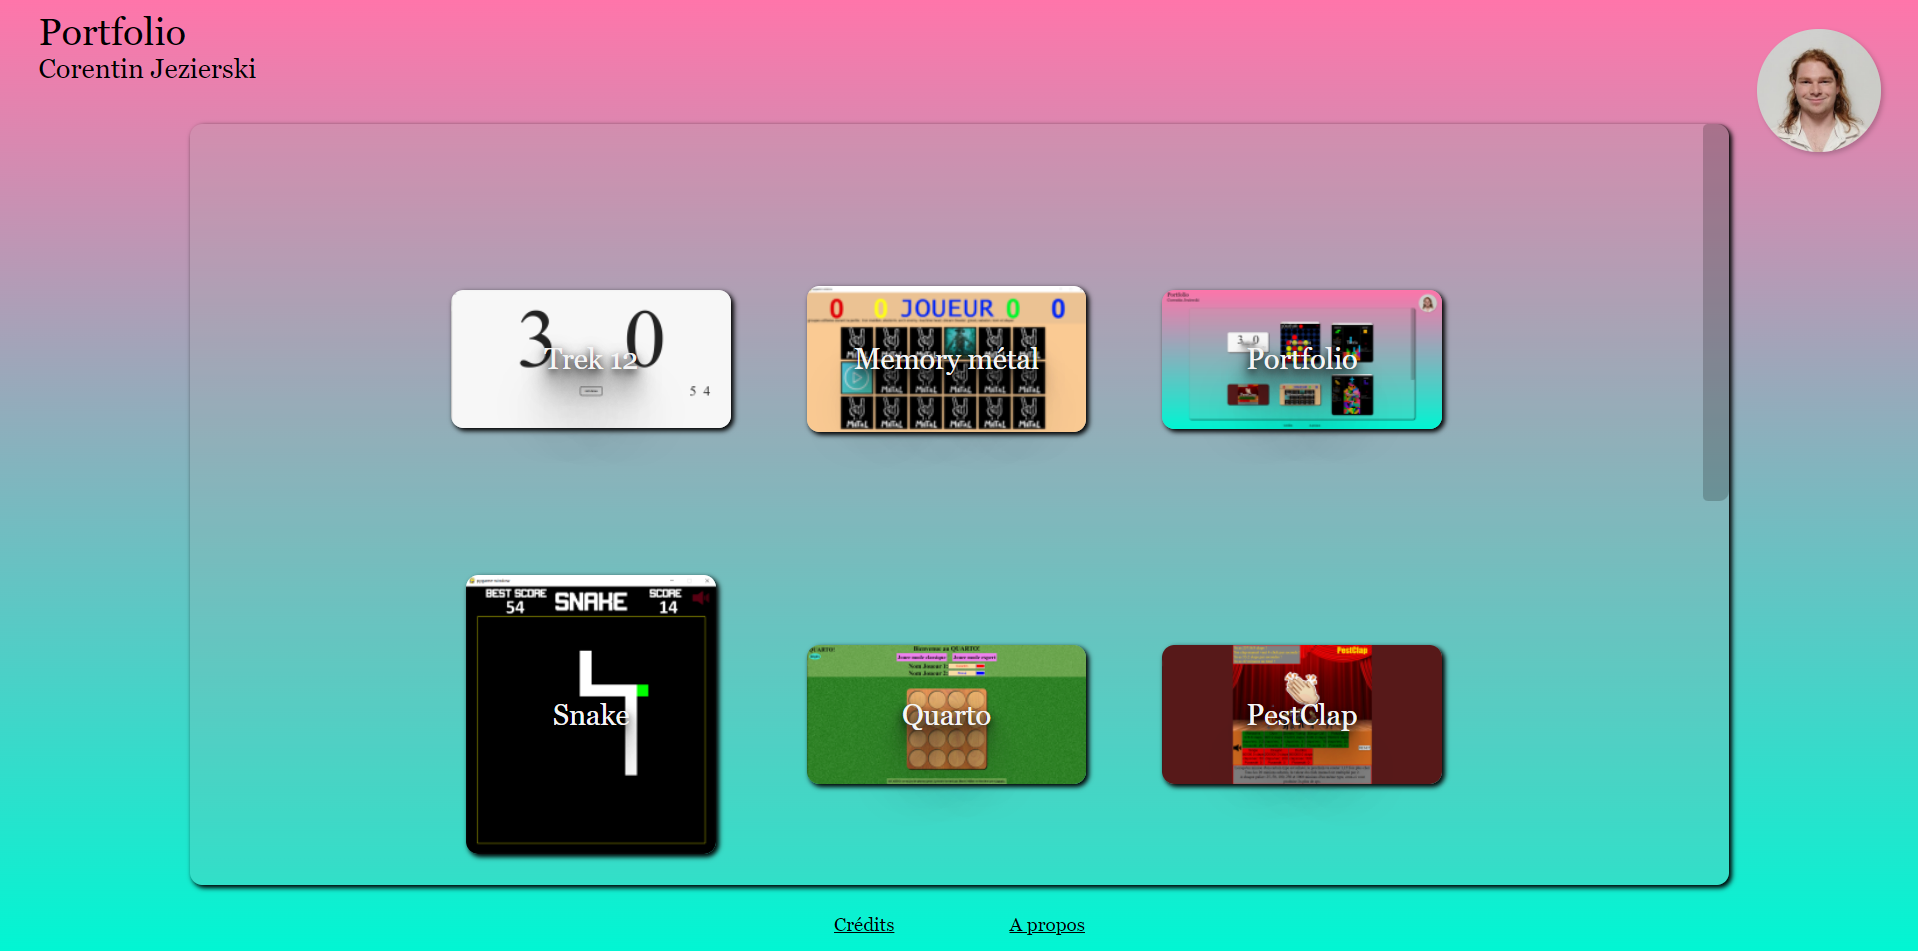
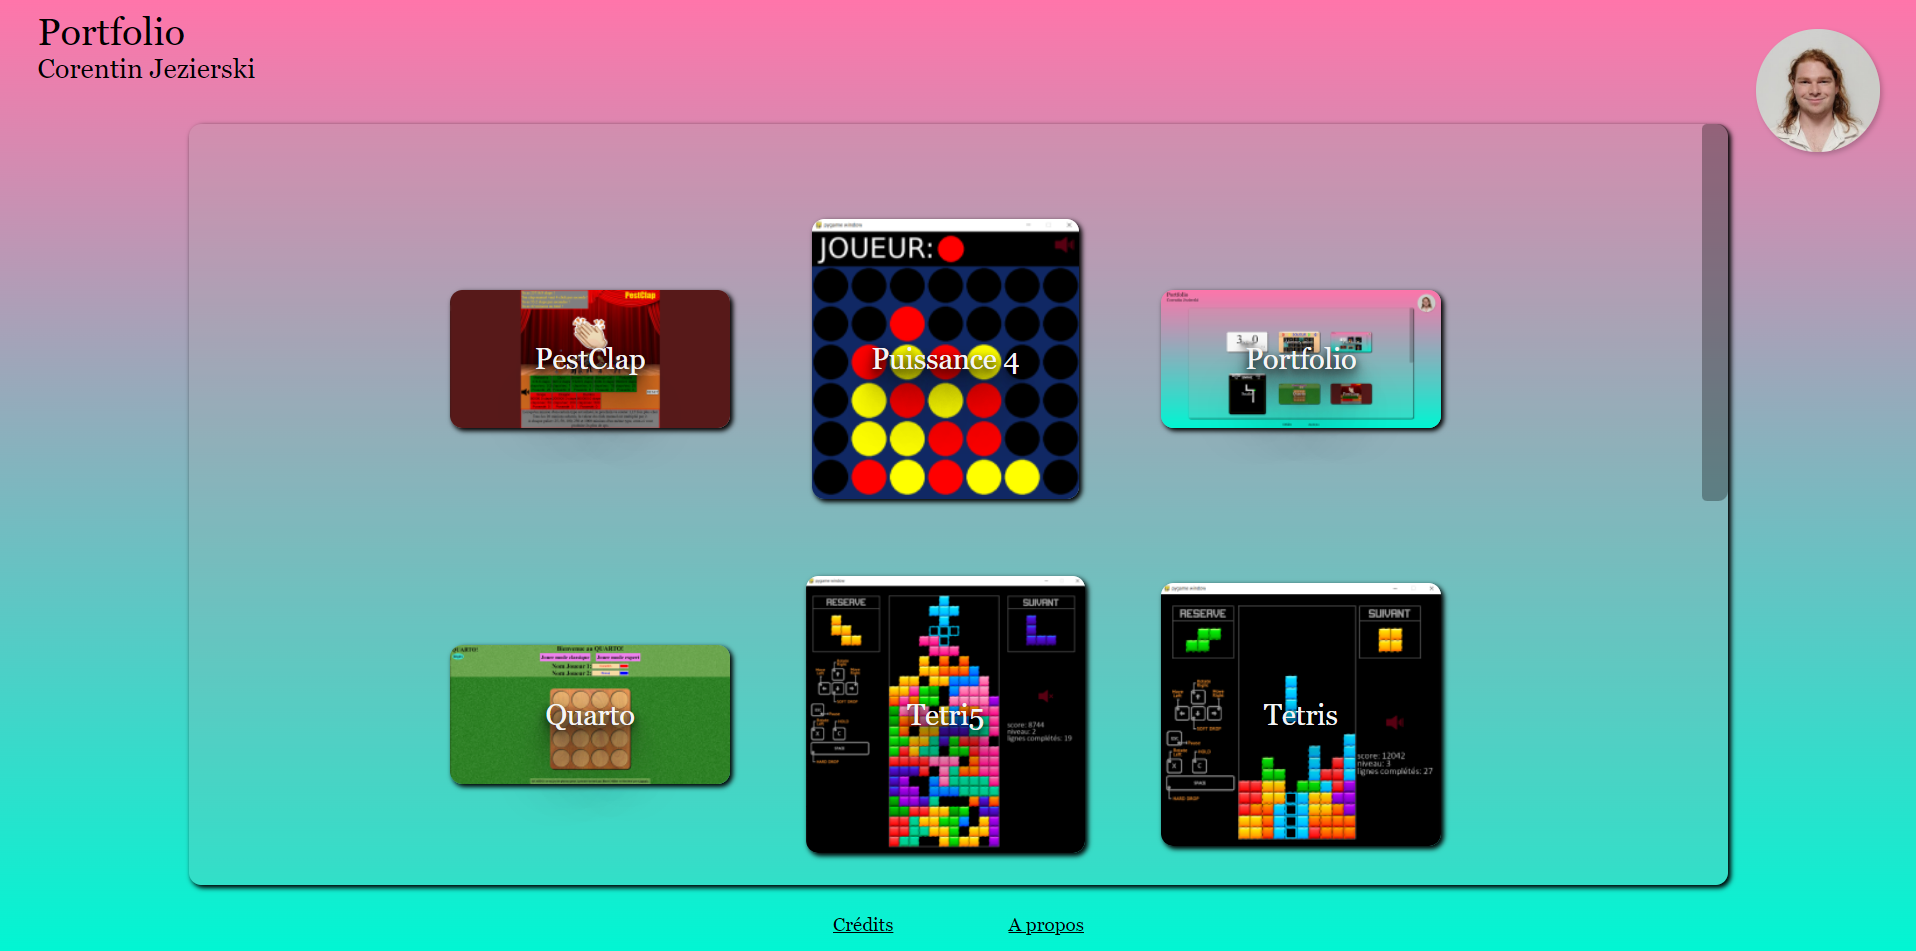
sit plus responsif et ajout de meilleures animations pour ma tete

diff --git a/styles/style_portfolio.css b/styles/style_portfolio.css
@@ -39,6 +39,11 @@ header{
     cursor: pointer;
 }
 
+#nameLastname{
+    cursor: pointer;
+}
+
+
 #centerHeader{
     position: absolute;
     top:4%;
@@ -82,11 +87,12 @@ header{
 
 #rightHeader > img:hover {
     content: url("../pictures/Me/Me2.png");
+    transform: rotate(0) scale(1.05);
 }
 
 #rightHeader > img:active {
     content: url("../pictures/Me/Me3.png");
-    transform: rotate(365deg);
+    transform: rotate(365deg) scale(1.3);
 }
 
 main{
@@ -99,6 +105,7 @@ main{
 #headerProject{
     display: flex;
     justify-content: center;
+    flex-wrap: wrap;
 }
 
 #nameProject{
@@ -129,7 +136,7 @@ main{
     max-height:100%;
     max-width:100%;
     object-fit: contain; 
-    padding-left: 20px;
+    padding-left: 0.5em;
 }
 
 
@@ -148,15 +155,14 @@ main{
 
 #iconsCredits > div{
     display: flex;
-    flex-direction: row;
+    justify-content: center;
     max-height: 3vmin;
     margin: 0.2vmin;
-    text-align:center;
 
 }
 
 #iconsCredits > div > a{
-    margin-right:20px;
+    margin-right:0.5em;
     font-size: 0.5em;
     display: flex;
     flex-direction: column;
@@ -181,7 +187,7 @@ main{
     display: flex;
     flex-direction: column;
     height: 100%;
-    width: 32%;
+    width: 35%;
     justify-content: center;
 }
 
@@ -210,7 +216,7 @@ main{
 }
 
 .scroll::-webkit-scrollbar {
-    width: 1.4vw;
+    width: 3.3vw;
     height: 3.3vh;
 
 }
@@ -224,14 +230,13 @@ main{
     background-color: rgba(0, 0, 0, 0.3);
 }
 
-
 #picturesProject{
     position: relative;
     display: flex;
     flex-direction: column;
     justify-content: center;
     height: 100%;
-    width: 62%;
+    width: 59%;
 }
 
 .pictureProject.active{
@@ -256,10 +261,15 @@ main{
     border-radius: 10px;  
 }
 
+.pictureProjectModel:hover, .nameProjectModel:hover + .pictureProjectModel{
+    box-shadow: 4px 4px 8px #000000;
+}
+
+
 .arrow{
     display: block;
-    height: 10vmin;
-    width: 10vmin;
+    height: 11vmin;
+    width: 11vmin;
     opacity: 0.85;
     background-color: black;
     top: 50%;
@@ -269,8 +279,8 @@ main{
 }
 
 .arrow:hover{
-    height: 12vmin;
-    width: 12vmin;
+    height: 13vmin;
+    width: 13vmin;
     opacity: 1;
 }
 
@@ -372,7 +382,7 @@ footer{
 
 #aboutText{
     width:fit-content;
-    height: fit-content;
+    max-height: 50%;
     margin: 0 20vmin;
 }
 
@@ -397,4 +407,36 @@ footer{
 
 #aboutHeader{
     font-size: 1.5em;
+}
+
+@media screen and (min-height:calc(1.1*100vw)){
+
+    #main{
+        justify-content: center;
+    }
+
+    #mainProject{
+        flex-direction: column-reverse;
+        align-items: center;
+        justify-content: flex-end;
+        height: 100%;
+        font-size: 0.95em;
+        padding: 1% 2%;
+    }
+
+    #containerTextsProject {
+        width: 100%;
+        max-height: 45%;
+        margin:2vmin 3vmin;
+    }
+
+    #textsProject > div {
+        padding: 2%;
+    }
+
+    #picturesProject {
+        width: 100%;
+        max-height: 40%;
+    }
+
 }

diff --git a/js/gestion_pages.js b/js/gestion_pages.js
@@ -152,10 +152,6 @@ function pageCredits(){
                 <a href="https://www.flaticon.com/fr/icones-gratuites/lien" target="_blank" class="linkProject" id="linkWebsiteProject"><img class="iconProject" alt="Icone Web" src="pictures/icons/Web.png"></a>  \
                 <a href="https://www.flaticon.com/fr/icones-gratuites/lien" title="lien icônes" target="_blank">Freepik - Flaticon</a> \
             </div> \
-            <div> \
-                <a href="https://www.flaticon.com/fr/icones-gratuites/linkedin" target="_blank" class="linkProject" id="linkWebsiteProject"><img class="iconProject" alt="Icone linkedIn" src="pictures/icons/Linkedin.png"></a> \
-                <a href="https://www.flaticon.com/fr/icones-gratuites/linkedin" title="linkedin icônes" target="_blank">riajulislam - Flaticon</a> \
-            </div> \
         </div> \
     '
 }

diff --git a/js/loadMainPage.js b/js/loadMainPage.js
@@ -8,8 +8,8 @@ function fill_projects(projects){
         pictureProject.setAttribute("onclick","goPageProjectById("+projects[i].id+")"); 
         nameProject.innerHTML = projects[i].name;
         nameProject.setAttribute("onclick","goPageProjectById("+projects[i].id+")"); 
-        project.appendChild(pictureProject);
         project.appendChild(nameProject);
+        project.appendChild(pictureProject);
         projectsModel.appendChild(project);
     }   
 }

diff --git a/index.html b/index.html
@@ -12,7 +12,7 @@
     <header>
         <div id="leftHeader">
             <div id="nameWebsite" onclick="goPageMain()" >Portfolio</div>
-            <div id="nameLastname">Corentin Jezierski</div>
+            <div id="nameLastname" onclick="goPageAbout()">Corentin Jezierski</div>
         </div>
         <div id="centerHeader">
             <!-- <select  id="filterTechnologie">

diff --git a/js/caroussel.js b/js/caroussel.js
@@ -2,7 +2,9 @@ var index_slide = 0
 
 function desactiveSlide(){
     var items = document.querySelectorAll(".pictureProject");
-    items[index_slide].classList.remove('active');
+    while (items[index_slide].classList.contains("active")){
+        items[index_slide].classList.remove('active');
+    }
 }
 
 function activeSlide(){

diff --git a/js/loadProjectPageById.js b/js/loadProjectPageById.js
@@ -117,12 +117,3 @@ async function inflate_by_id(id){
 
     addProject(project);
 }
-
-
-function  animationHeadMe(){
-    document.querySelector("#rightHeader > img").style.animation="rotate 1s";
-    setTimeout(function(){
-        document.querySelector("#rightHeader > img").style.animation="";
-    }, 1000);
-}
-
